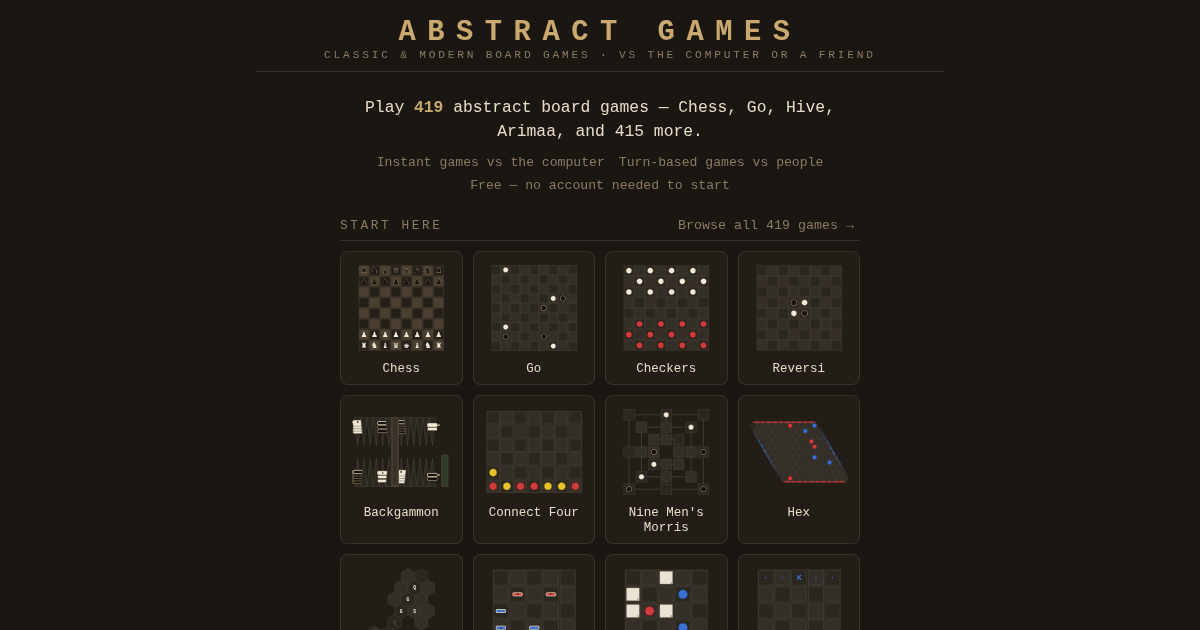
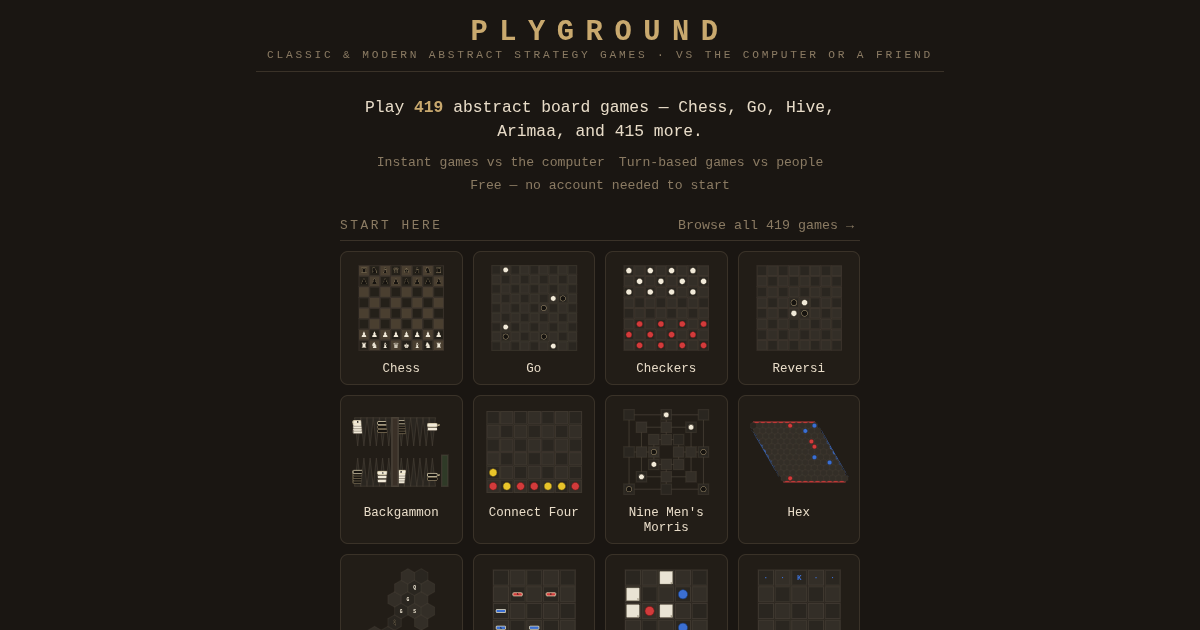
Rename the site to Plyground (display name; URL unchanged)
Header wordmark, tab title, page/OG/Twitter titles, tagline now says
'abstract strategy games', email signature + reset subject + default From.
Fresh og-image.png. AGP_EMAIL_FROM on Render updated to match.

Changed region(s): [[0.3083, 0.0302, 0.74, 0.0905]]

diff --git a/web/index.html b/web/index.html
@@ -5,21 +5,21 @@
     <meta name="viewport" content="width=device-width, initial-scale=1.0" />
     <link rel="icon" type="image/svg+xml" href="/favicon.svg" />
     <meta name="theme-color" content="#1a1612" />
-    <title>Abstract Games — play 400+ board games vs computer or people</title>
+    <title>Plyground — play 400+ abstract board games vs computer or people</title>
     <meta name="description" content="A free platform for 400+ abstract board games — Chess, Go, Hive, Arimaa and more. Play instantly vs the computer, or sign in for rated correspondence games against other people." />
     <!-- Open Graph / social sharing -->
     <meta property="og:type" content="website" />
-    <meta property="og:site_name" content="Abstract Games" />
-    <meta property="og:title" content="Abstract Games — 400+ board games, vs computer or people" />
+    <meta property="og:site_name" content="Plyground" />
+    <meta property="og:title" content="Plyground — 400+ abstract board games, vs computer or people" />
     <meta property="og:description" content="Play 400+ abstract board games instantly vs the computer, or rated correspondence games vs other people. Free." />
     <meta property="og:url" content="https://abstract-games.onrender.com/" />
     <meta property="og:image" content="https://abstract-games.onrender.com/og-image.png" />
     <meta property="og:image:width" content="1200" />
     <meta property="og:image:height" content="630" />
-    <meta property="og:image:alt" content="The Abstract Games landing page: board thumbnails of Chess, Go, Checkers, Reversi, Backgammon, Connect Four, Nine Men’s Morris and Hex" />
+    <meta property="og:image:alt" content="The Plyground landing page: board thumbnails of Chess, Go, Checkers, Reversi, Backgammon, Connect Four, Nine Men’s Morris and Hex" />
     <meta name="twitter:card" content="summary_large_image" />
     <meta name="twitter:image" content="https://abstract-games.onrender.com/og-image.png" />
-    <meta name="twitter:title" content="Abstract Games — 400+ board games, vs computer or people" />
+    <meta name="twitter:title" content="Plyground — 400+ abstract board games, vs computer or people" />
     <meta name="twitter:description" content="Play 400+ abstract board games instantly vs the computer, or rated games vs other people. Free." />
   </head>
   <body>

diff --git a/web/src/styles.css b/web/src/styles.css
@@ -398,9 +398,9 @@ button.secondary:hover { color: var(--text); border-color: var(--accent); }
 @media (max-width: 560px) {
   .app { padding: 12px 10px; }
   .shelf-grid { grid-template-columns: repeat(3, 1fr); gap: 8px; }
-  /* "ABSTRACT GAMES" at 1.8rem + 0.4em spacing is ~400px wide → horizontal
-     scroll on a phone. Shrink it so it fits a ~343px content width. */
-  header h1 { font-size: 1.2rem; letter-spacing: 0.22em; }
+  /* Keep the wordmark and its long tagline inside a ~343px content width
+     (the old 14-letter "ABSTRACT GAMES" at desktop size scrolled sideways). */
+  header h1 { font-size: 1.5rem; letter-spacing: 0.3em; }
   .tagline { font-size: 0.62rem; letter-spacing: 0.12em; }
   /* When the play-area wraps, let the move log + chat span the full width
      instead of a cramped 190px column under the board. */

diff --git a/web/src/Lobby.jsx b/web/src/Lobby.jsx
@@ -28,9 +28,9 @@ export default function Lobby({ me, games, go, refreshGames, config }) {
 
   const myTurnCount = matches.filter((m) => m.status === 'active' && m.my_turn).length
 
-  // Tab-title badge so an open tab shows "(2) Abstract Games" when games are waiting.
+  // Tab-title badge so an open tab shows "(2) Plyground" when games are waiting.
   useEffect(() => {
-    const base = 'Abstract Games'
+    const base = 'Plyground'
     document.title = myTurnCount > 0 ? `(${myTurnCount}) ${base}` : base
     return () => { document.title = base }
   }, [myTurnCount])

diff --git a/web/src/App.jsx b/web/src/App.jsx
@@ -92,9 +92,9 @@ export default function App() {
     <div className="app">
       <header>
         <h1 onClick={() => go({ name: 'home' })} style={{ cursor: 'pointer' }}>
-          ABSTRACT GAMES
+          PLYGROUND
         </h1>
-        <div className="tagline">classic &amp; modern board games · vs the computer or a friend</div>
+        <div className="tagline">classic &amp; modern abstract strategy games · vs the computer or a friend</div>
       </header>
       <main>
         {!games && (

diff --git a/server/notify.py b/server/notify.py
@@ -24,7 +24,7 @@ SMTP_HOST = os.environ.get("AGP_SMTP_HOST")
 SMTP_PORT = int(os.environ.get("AGP_SMTP_PORT", "587"))
 SMTP_USER = os.environ.get("AGP_SMTP_USER")
 SMTP_PASS = os.environ.get("AGP_SMTP_PASS")
-EMAIL_FROM = os.environ.get("AGP_EMAIL_FROM", "Abstract Games <no-reply@localhost>")
+EMAIL_FROM = os.environ.get("AGP_EMAIL_FROM", "Plyground <no-reply@localhost>")
 BASE_URL = os.environ.get("AGP_BASE_URL", "http://localhost:5173").rstrip("/")
 EMAIL_SYNC = os.environ.get("AGP_EMAIL_SYNC", "") not in ("", "0", "false")
 # HTTPS transport (Resend). Render's FREE tier blocks outbound SMTP ports
@@ -125,7 +125,7 @@ def match_url(match_id: str) -> str:
 
 
 _FOOTER = (
-    "\n\n— Abstract Games\n"
+    "\n\n— Plyground\n"
     "You're getting this because you have an account at {base}. "
     "Games time out after {days:g} days without a move."
 )
@@ -222,7 +222,7 @@ def notify_message_report(*, report_id: int, reporter: str, reporter_id: int, au
 
 
 def notify_password_reset(to_email: str, to_name: str, reset_url: str) -> None:
-    subject = "Reset your Abstract Games password"
+    subject = "Reset your Plyground password"
     body = (
         f"Hi {to_name},\n\n"
         f"Someone (hopefully you) asked to reset the password for this account. "

diff --git a/server/app.py b/server/app.py
@@ -47,7 +47,7 @@ from .db import get_db, init_db
 from .games import registry, sanitize_options
 from .models import Match, Seek, User
 
-app = FastAPI(title="Abstract Games Platform", version="0.2.0")
+app = FastAPI(title="Plyground", version="0.2.0")
 app.add_middleware(
     CORSMiddleware,
     allow_origins=["http://localhost:5173", "http://localhost:5174"],

diff --git a/CLAUDE.md b/CLAUDE.md
@@ -1,6 +1,7 @@
 # Abstract Games Platform
 
 Generic platform for abstract board games (async-vs-human + vs-bot), games added as modular packages.
+**Public display name: Plyground** (since 2026-10-08; header, tab title, OG/meta tags, email From/signature via `AGP_EMAIL_FROM` on Render). The URL, repo and code names stay `abstract-games`/`agp` — no domain bought yet.
 See PLATFORM_PLAN.md (roadmap) and engine/SPEC.md (game authoring contract).
 
 ## Layout
